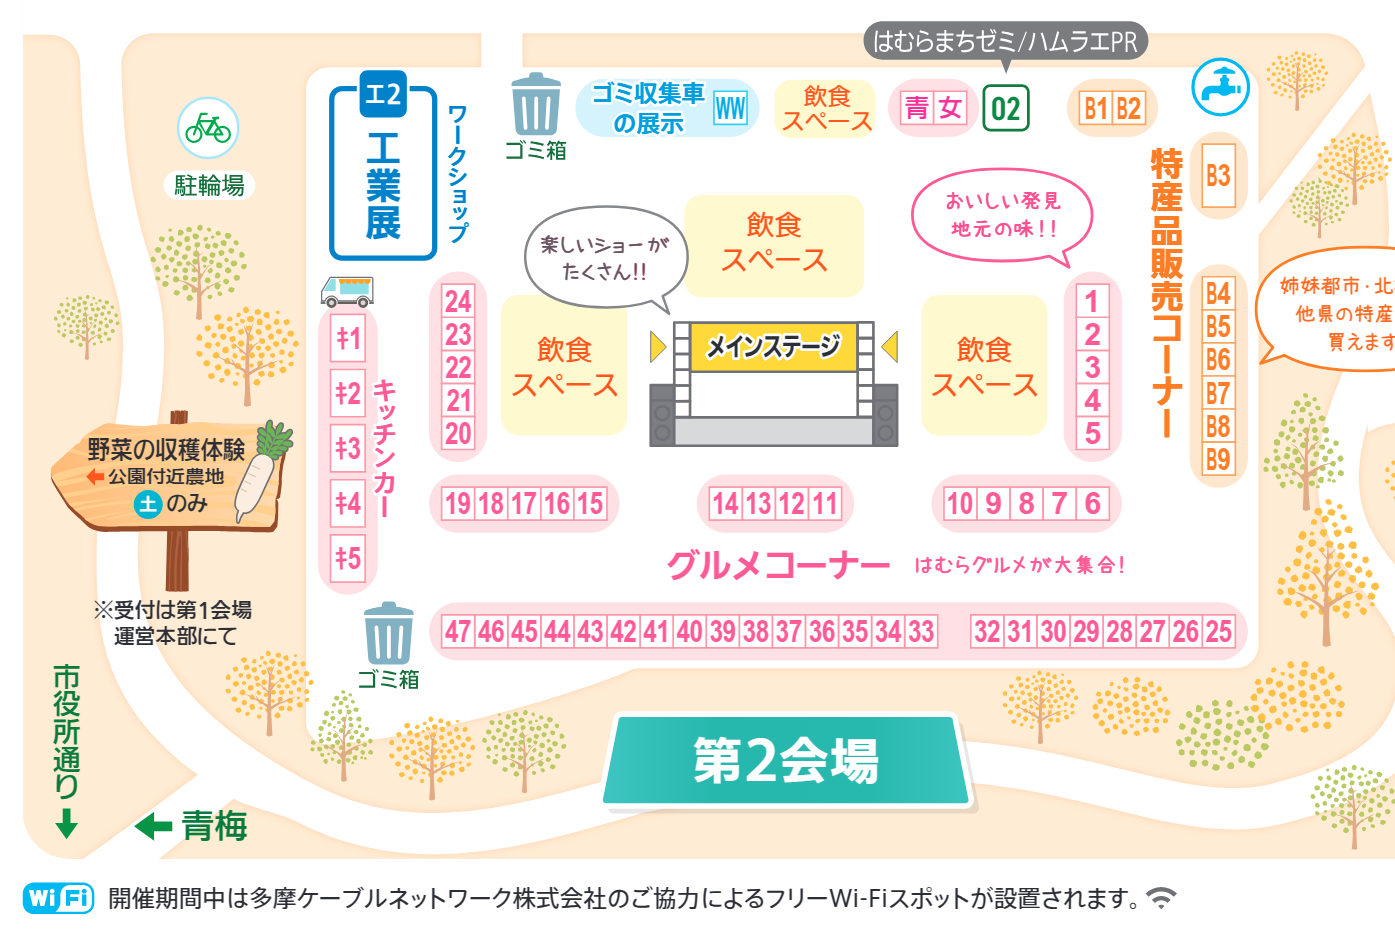
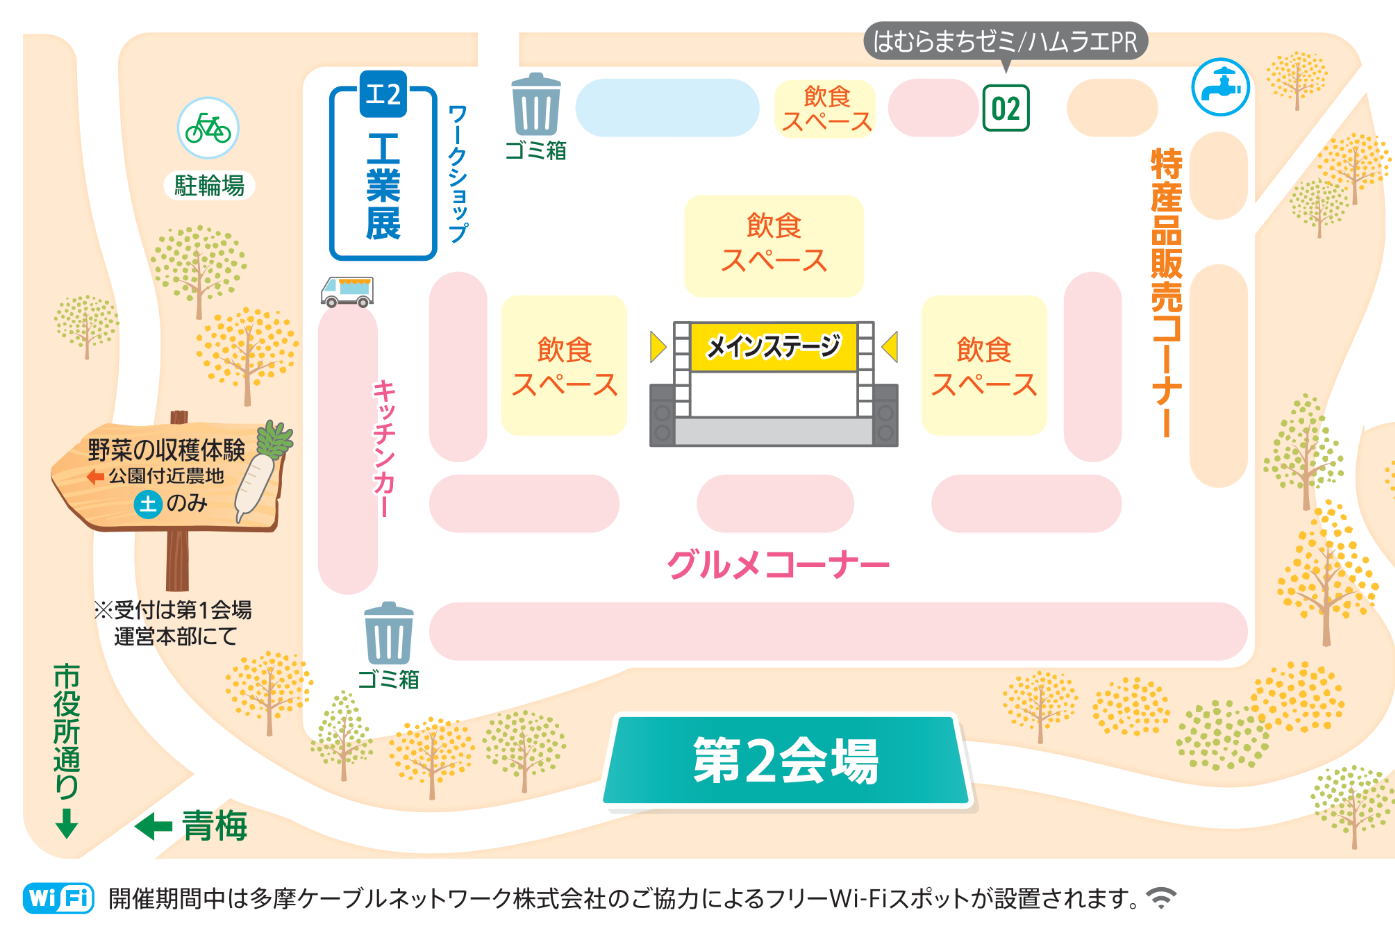
feat(app): 地図の下地を今年版（第4会場入り）に差し替え、特殊区画を追加
- 全体・第1〜第3会場の地図を今年版の会場図PDFから作り直した。去年の画像と
  画素単位で位置合わせしてあるため、ブース・スポット・会場範囲の座標はそのまま使える
- 第4会場（テニスコート）の地図と、全体地図の会場タップ範囲を追加
- 特殊区画の透明なタップ範囲を今年版に合わせて追加（農業展・農産物直売所・盆栽展・
  消費者展・工業展・テニス体験コーナー）。説明の届いていないエリアは「準備中」と表示

Claude-Session: https://claude.ai/code/session_01TsEkKBtkh9RSBZUrUj6Vuv

diff --git a/app/src/mocks/areaHotspots.ts b/app/src/mocks/areaHotspots.ts
@@ -1,52 +1,103 @@
 import type { AreaHotspot } from '../shared/types';
 
 /**
- * 会場地図（base-map-第1会場.png）の上での、特殊区画のタップ範囲（会場番号→エリア配列）。
- * 範囲は地図の見た目に合わせて目で合わせた仮の値。説明文は会場図の記載と出店者一覧（PR展）から転記。
- * 第2〜第4会場は、新しい会場図から下地を作り直した後に追加する。
+ * 会場地図の上での、特殊区画のタップ範囲（会場番号→エリア配列）。
+ * 範囲は今年版の会場図（第4会場入り）に合わせた値。説明文は会場図の記載と出店者一覧（PR展）から転記し、
+ * 内容がまだ届いていないエリアは description を省略している（ポップアップで「準備中」と出る）。
  */
 export const AREA_HOTSPOTS_BY_VENUE: Record<number, AreaHotspot[]> = {
   1: [
     {
+      id: 'area-agriculture',
+      name: '農業展',
+      description: '野菜の宝船、農産物の展示・即売。',
+      notes: ['土：展示', '日：即売'],
+      x: 11.7,
+      y: 17.5,
+      width: 15.2,
+      height: 13.9,
+    },
+    {
+      id: 'area-farm-stand',
+      name: '農産物直売所',
+      x: 12.2,
+      y: 34.2,
+      width: 6.1,
+      height: 17.4,
+    },
+    {
+      id: 'area-bonsai',
+      name: '盆栽展',
+      x: 12.2,
+      y: 56,
+      width: 4.1,
+      height: 10.1,
+    },
+    {
       id: 'area-playland',
       name: 'プレイランド',
-      description: '恐竜キャラクターパーク、ふわふわ遊具、公園遊具体験など、子どもが遊べるエリアです。',
-      notes: [
-        '土：スポーツ体験（ラダーゲッター・モルック）／羽村市スポーツ推進委員協議会',
-        '日：パットゴルフ',
-      ],
-      x: 26.2,
-      y: 34.3,
-      width: 39.3,
-      height: 31.5,
+      description: 'スポーツ体験（ラダーゲッター・モルック）。羽村市スポーツ推進委員協議会の活動紹介もあります。',
+      notes: ['10/31（土）のみ'],
+      x: 25.9,
+      y: 35.6,
+      width: 40,
+      height: 29.9,
     },
     {
       id: 'area-construction-booth',
       name: '建設業ブース',
       description: '射的、包丁研ぎ、まな板削りなど。',
-      x: 70,
-      y: 29.5,
-      width: 9.5,
-      height: 14.4,
+      x: 69.5,
+      y: 29.3,
+      width: 10.1,
+      height: 14.6,
     },
     {
       id: 'area-construction-machinery',
       name: '建設業重機',
       description: '重機の展示など。',
-      x: 75,
-      y: 45.2,
-      width: 8.5,
-      height: 22.6,
+      x: 74.1,
+      y: 44.6,
+      width: 8.6,
+      height: 22.9,
     },
     {
       id: 'area-food-education',
       name: 'はむら食育ステーション',
-      description: '展示とゲームで楽しく食育を学べます。',
       notes: ['土：はむら食育ステーション', '日：農産物チャリティバザー'],
-      x: 14,
-      y: 73.3,
-      width: 12.5,
-      height: 12.3,
+      x: 13.8,
+      y: 73.1,
+      width: 12.7,
+      height: 12.5,
+    },
+    {
+      id: 'area-consumer',
+      name: '消費者展',
+      x: 71.7,
+      y: 74.7,
+      width: 5.3,
+      height: 6.3,
+    },
+  ],
+  2: [
+    {
+      id: 'area-industry',
+      name: '工業展',
+      x: 23.6,
+      y: 7.1,
+      width: 10.4,
+      height: 20.5,
+    },
+  ],
+  4: [
+    {
+      id: 'area-tennis',
+      name: 'テニス体験コーナー',
+      description: 'テニスコート全面を使ったテニス体験コーナーです。',
+      x: 18.4,
+      y: 17.8,
+      width: 51.9,
+      height: 53.9,
     },
   ],
 };

diff --git a/app/src/shared/types/map.ts b/app/src/shared/types/map.ts
@@ -11,12 +11,12 @@ export interface VenueMap {
   width: number;
   /** 地図画像の高さ（px）。x, y 座標の基準 */
   height: number;
-  /** 特定の会場（1〜3）専用の地図である場合の会場番号。未設定＝会場をまたいだ「全体」の地図 */
+  /** 特定の会場（1〜4）専用の地図である場合の会場番号。未設定＝会場をまたいだ「全体」の地図 */
   venueId?: number;
 }
 
 /**
- * 「全体」地図の上に置く、会場（第1〜第3）のタップ範囲。
+ * 「全体」地図の上に置く、会場（第1〜第4）のタップ範囲。
  * タップするとその会場の拡大地図に切り替える。x, y, width, height は地図画像に対する割合（0〜100）。
  */
 export interface VenueHotspot {
@@ -34,7 +34,8 @@ export interface VenueHotspot {
 export interface AreaHotspot {
   id: string;
   name: string;
-  description: string;
+  /** 説明文。まだ内容が届いていないエリアは省略し、ポップアップでは「準備中」と出す */
+  description?: string;
   /** 曜日・日付ごとの内容など、説明の下に箇条書きで出す補足（任意） */
   notes?: string[];
   x: number;

diff --git a/app/src/mocks/venueHotspots.ts b/app/src/mocks/venueHotspots.ts
@@ -1,12 +1,12 @@
 import type { VenueHotspot } from '../shared/types';
 
 /**
- * 「全体」地図（venue-all.png）の上での、第1〜第3会場のだいたいの範囲（仮の値）。
- * 会場ごとの正確な区画合わせは今回は行っていない。地図の見た目（上部＝第1会場、
- * 左下＝第2会場、右下＝第3会場）に合わせたおおよその四角形。
+ * 「全体」地図（venue-all.png）の上での、第1〜第4会場のだいたいの範囲（仮の値）。
+ * 地図の見た目（左上＝第1会場、右上＝第4会場、左下＝第2会場、右下＝第3会場）に合わせたおおよその四角形。
  */
 export const MOCK_VENUE_HOTSPOTS: VenueHotspot[] = [
-  { venueId: 1, x: 0, y: 0, width: 100, height: 45 },
-  { venueId: 2, x: 0, y: 45, width: 50, height: 55 },
-  { venueId: 3, x: 50, y: 45, width: 50, height: 55 },
+  { venueId: 1, x: 0, y: 0, width: 58, height: 56 },
+  { venueId: 4, x: 58, y: 0, width: 42, height: 53 },
+  { venueId: 2, x: 0, y: 56, width: 50, height: 44 },
+  { venueId: 3, x: 50, y: 56, width: 50, height: 44 },
 ];

diff --git a/app/src/features/map/components/MapCanvas.tsx b/app/src/features/map/components/MapCanvas.tsx
@@ -20,7 +20,7 @@ type MapCanvasProps = {
   selectedSpot: Spot | null;
   /** ステージ（メイン/サブ）スポットのid→今の演目名。無ければ吹き出しを出さない */
   stageNowTitles?: Record<string, string>;
-  /** 「全体」地図の上に置く、会場（第1〜第3）のタップ範囲 */
+  /** 「全体」地図の上に置く、会場（第1〜第4）のタップ範囲 */
   venueHotspots?: VenueHotspot[];
   /** 会場表示のときだけ使う、特殊区画（エリア）の透明なタップ範囲 */
   areaHotspots?: AreaHotspot[];

diff --git a/app/src/features/map/components/AreaPopup.tsx b/app/src/features/map/components/AreaPopup.tsx
@@ -17,7 +17,7 @@ export default function AreaPopup({ area, onClose }: AreaPopupProps) {
         ✕
       </button>
       <h3 className="mb-1.5 mt-2 text-base font-extrabold">{area.name}</h3>
-      <p className="text-xs leading-relaxed text-[#4a5058]">{area.description}</p>
+      <p className="text-xs leading-relaxed text-[#4a5058]">{area.description ?? '詳しい内容は準備中です。'}</p>
       {area.notes && area.notes.length > 0 && (
         <ul className="mt-2 flex flex-col gap-1">
           {area.notes.map((note) => (

diff --git a/app/src/features/map/components/VenueHotspotArea.tsx b/app/src/features/map/components/VenueHotspotArea.tsx
@@ -7,7 +7,7 @@ type VenueHotspotAreaProps = {
 };
 
 /**
- * 「全体」地図の上に置く、会場（第1〜第3）のタップ範囲。本番では見た目は透明。
+ * 「全体」地図の上に置く、会場（第1〜第4）のタップ範囲。本番では見た目は透明。
  * 開発中だけ、範囲を確認しやすいようにうっすら枠を表示する。
  */
 export default function VenueHotspotArea({ hotspot, label, onTap }: VenueHotspotAreaProps) {

diff --git a/app/src/shared/types/spot.ts b/app/src/shared/types/spot.ts
@@ -17,7 +17,7 @@ export interface Spot {
   images: string[];
   /** 表示する地図（VenueMap）のid */
   mapId: string;
-  /** 所属する会場番号（1〜3）。「全体」地図では会場番号に関わらず全スポットを表示する */
+  /** 所属する会場番号（1〜4）。「全体」地図では会場番号に関わらず全スポットを表示する */
   venueId?: number;
   /** 地図画像上のx座標（ImageMap用） */
   x: number;

diff --git a/app/src/mocks/maps.ts b/app/src/mocks/maps.ts
@@ -33,4 +33,12 @@ export const MOCK_MAPS: VenueMap[] = [
     height: 1344,
     venueId: 3,
   },
+  {
+    id: 'map-4',
+    name: '第4会場',
+    imageUrl: '/maps/venue-4.png',
+    width: 964,
+    height: 1239,
+    venueId: 4,
+  },
 ];
